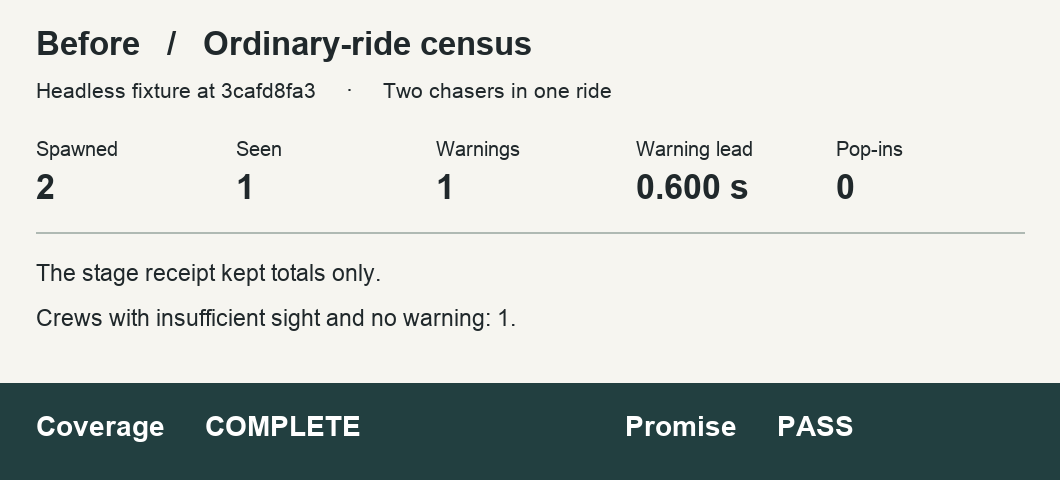
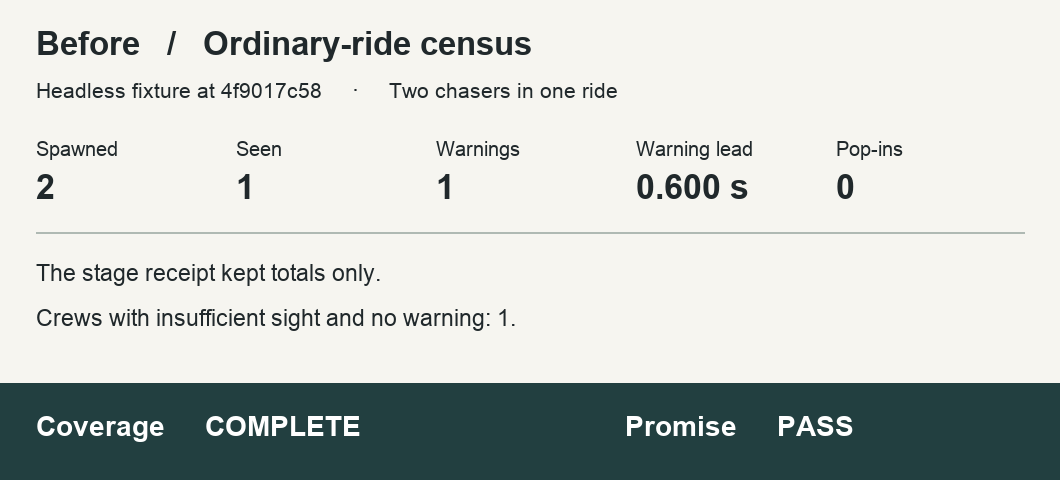
Refresh the two-crew fixture on the stage with hazard damage

Changed region(s): [[0.3736, 0.1562, 0.5915, 0.2188], [0.1868, 0.1562, 0.3113, 0.2188]]

diff --git a/artifacts/proof/W1-134/a-audit/README.md b/artifacts/proof/W1-134/a-audit/README.md
@@ -1,11 +1,11 @@
 # W1-134a ordinary-ride census
 
-Two chasers expose a false pass on stage `3cafd8fa3962934e11ba89c439b3af943dba5d8d`. Only the first chaser warns. It enters in view and accumulates 0.600 seconds on screen. The second chaser spawns behind the camera and dies before the next sample. Both runs record two spawns, one seen, one warning and zero pop-ins.
+Two chasers expose a false pass on stage `4f9017c58537e6e6785c00f6d4d45cdcd6e6f1be`. Only the first chaser warns. It enters in view and accumulates 0.600 seconds on screen. The second chaser spawns behind the camera and dies before the next sample. Both runs record two spawns, one seen, one warning and zero pop-ins.
 
 | Head | Crew coverage | Arrival promise | Record |
 | --- | --- | --- | --- |
-| Stage `3cafd8fa3` | Complete | Pass | [Before](before.png) · [Receipt](before.json) |
-| Candidate `8fb903305` | Incomplete | Fail | [After](after.png) · [Receipt](after.json) |
+| Stage `4f9017c58` | Complete | Pass | [Before](before.png) · [Receipt](before.json) |
+| Candidate `17bb1016f` | Incomplete | Fail | [After](after.png) · [Receipt](after.json) |
 
 These strips display the recorded Godot 4.7.2 headless measurements. For the stage reproduction, the [fixture patch](stage-fixture.patch) supplies the same measured pair to each input of the original receipt aggregator. Those repeated rows represent one fixture. On the candidate the `ordinary_unseen` fixture runs the ordinary-ride receipt directly. Its one expected failure is the promise assertion. Eighteen controls pass, including the control that times the warning using six 0.1-second steps.
 
